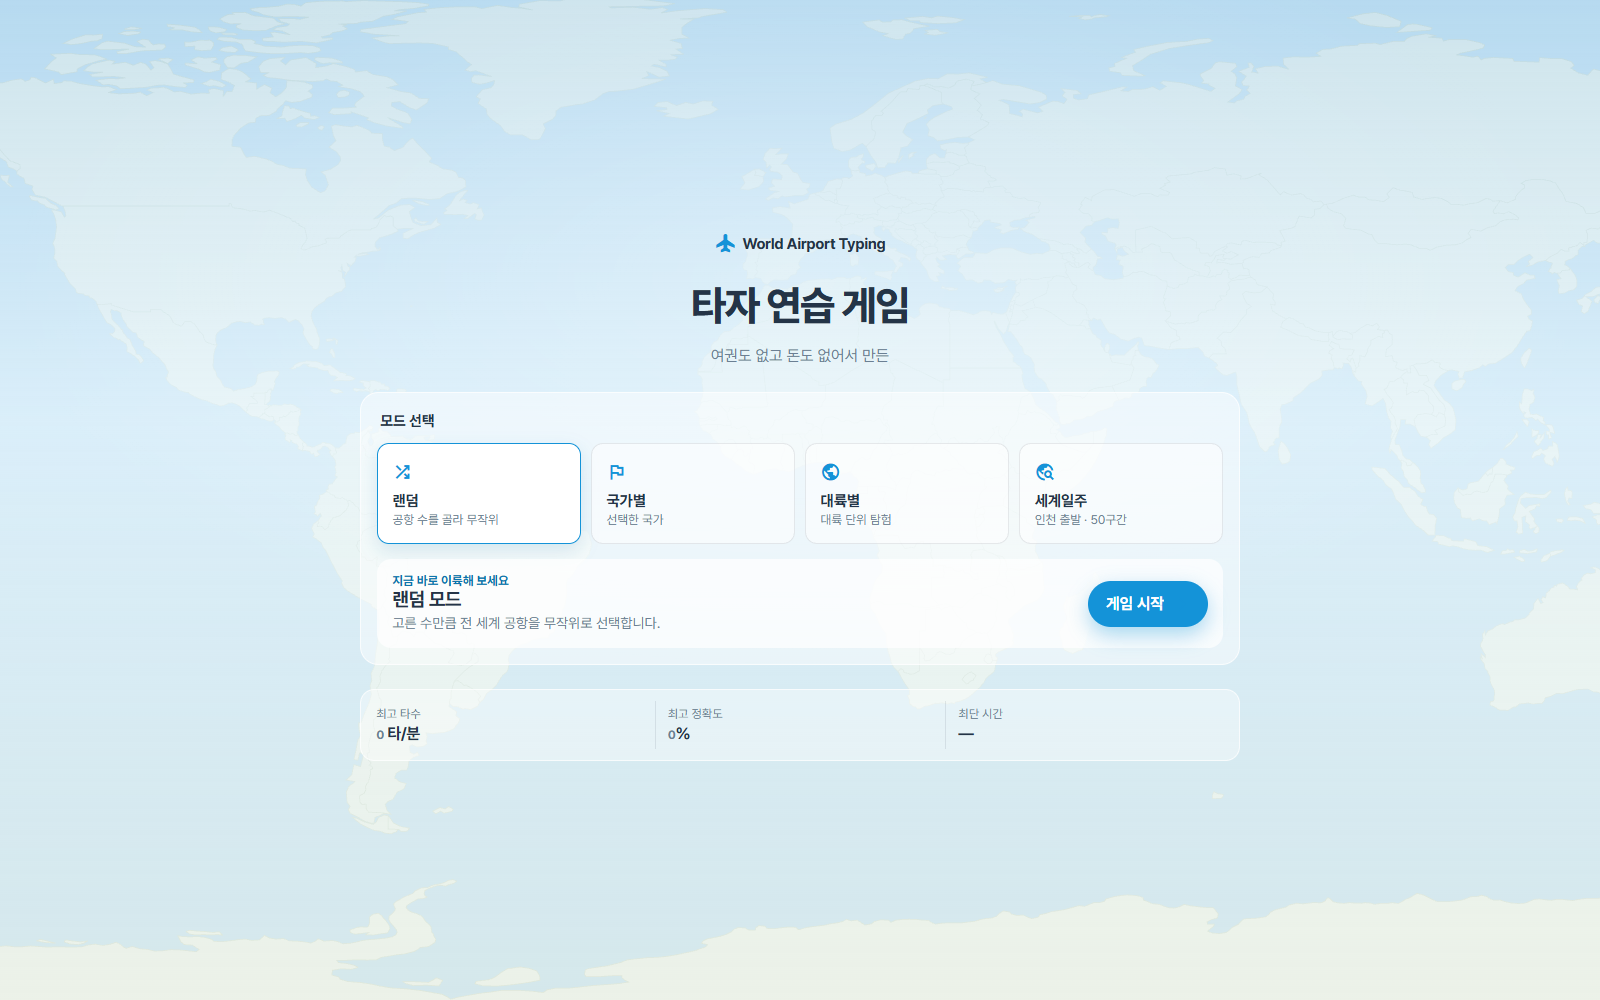
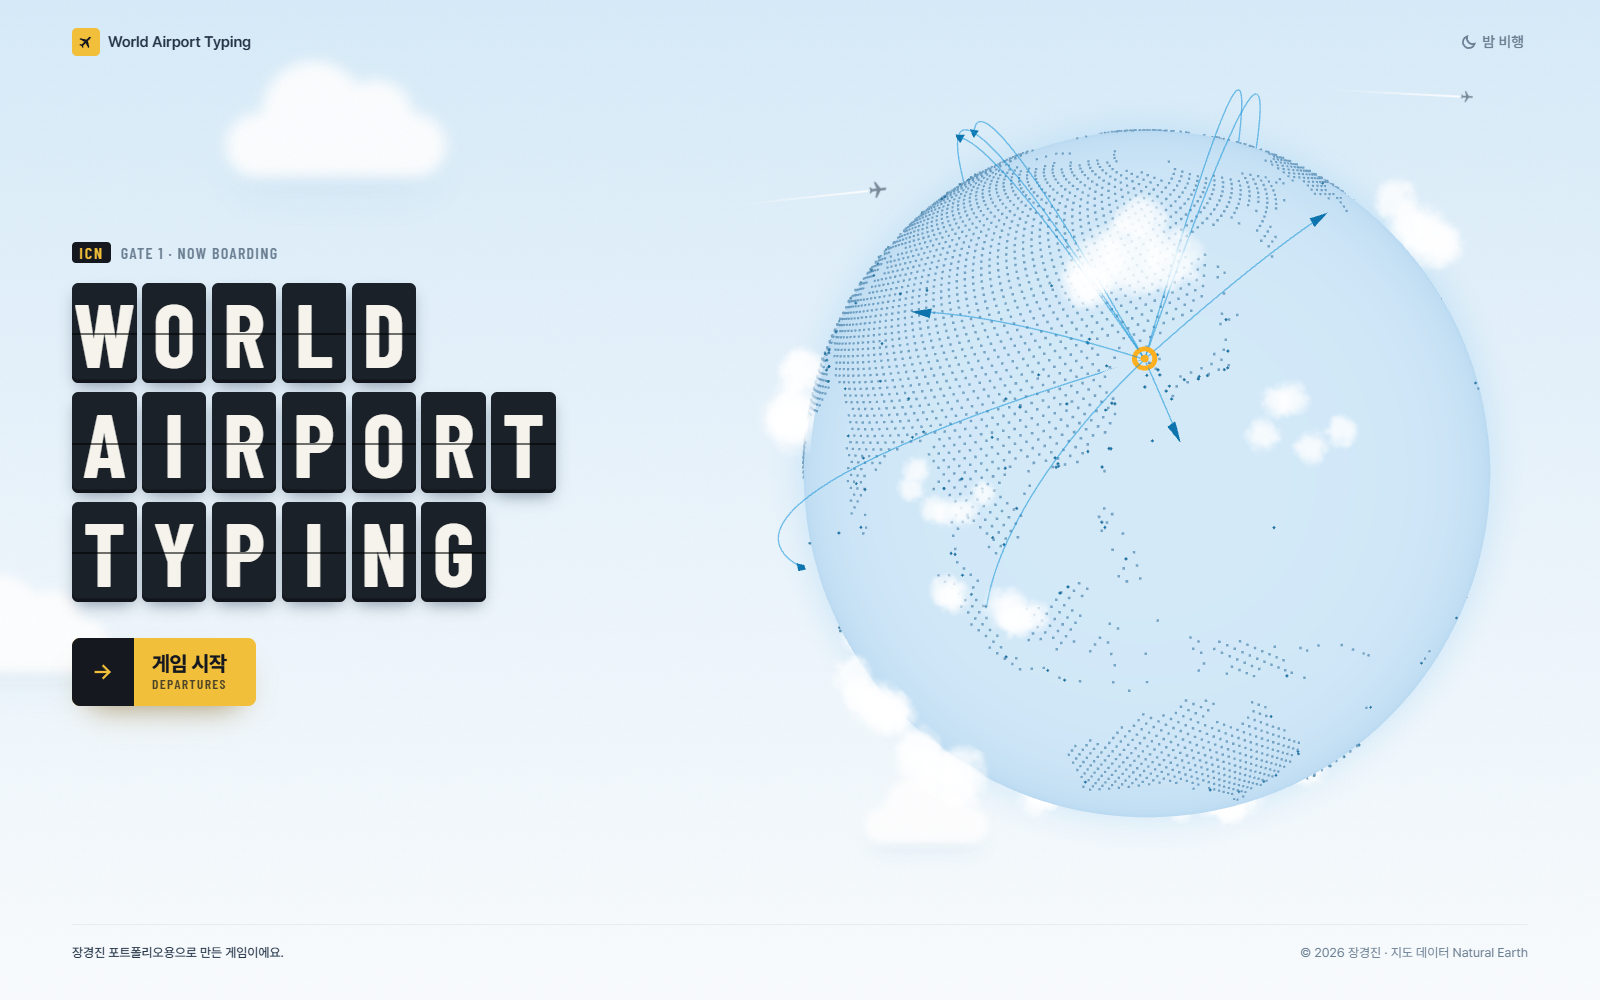
오류 수정: 에어포트 타이핑 링크 포트 변경과 사진 갱신
- 링크: 103.218.172.76:3000 → :9090 (서버 포트 변경)
- 사진: 예전 모드 선택 화면 → 현재 버전 첫 화면 캡처 (airport-typing.png)

diff --git a/src/data/projects.ts b/src/data/projects.ts
@@ -105,7 +105,7 @@ export const PROJECTS: Project[] = [
       { skill: "GSAP",   usage: "세계지도 줌과 비행 경로 애니메이션을 넣었어요." },
       { skill: "Sass",   usage: "게임 HUD와 홈, 오버레이 스타일을 나눴어요." },
     ],
-    href: "http://103.218.172.76:3000", code: "https://github.com/d3vKJ/kj_portfolio_wat", image: "/projects/airport-typing.png",
+    href: "http://103.218.172.76:9090", code: "https://github.com/d3vKJ/kj_portfolio_wat", image: "/projects/airport-typing.png",
   },
   {
     name: "youtube-music", nameKo: "유튜브 뮤직", year: "2026", solo: true, category: "Desktop",
